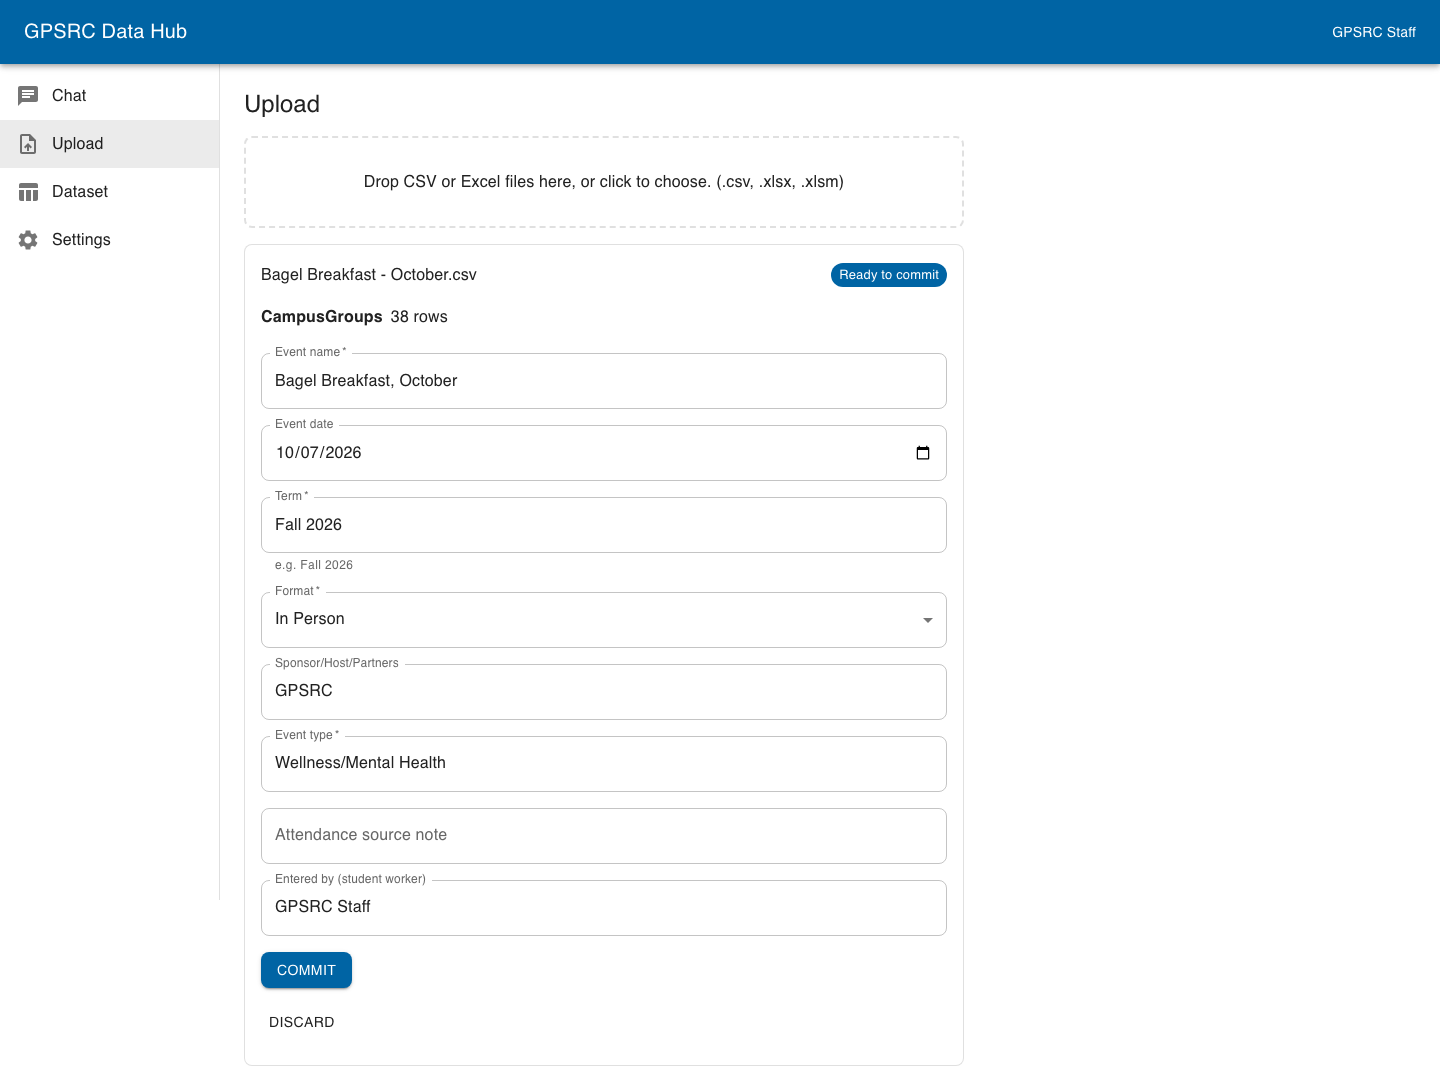
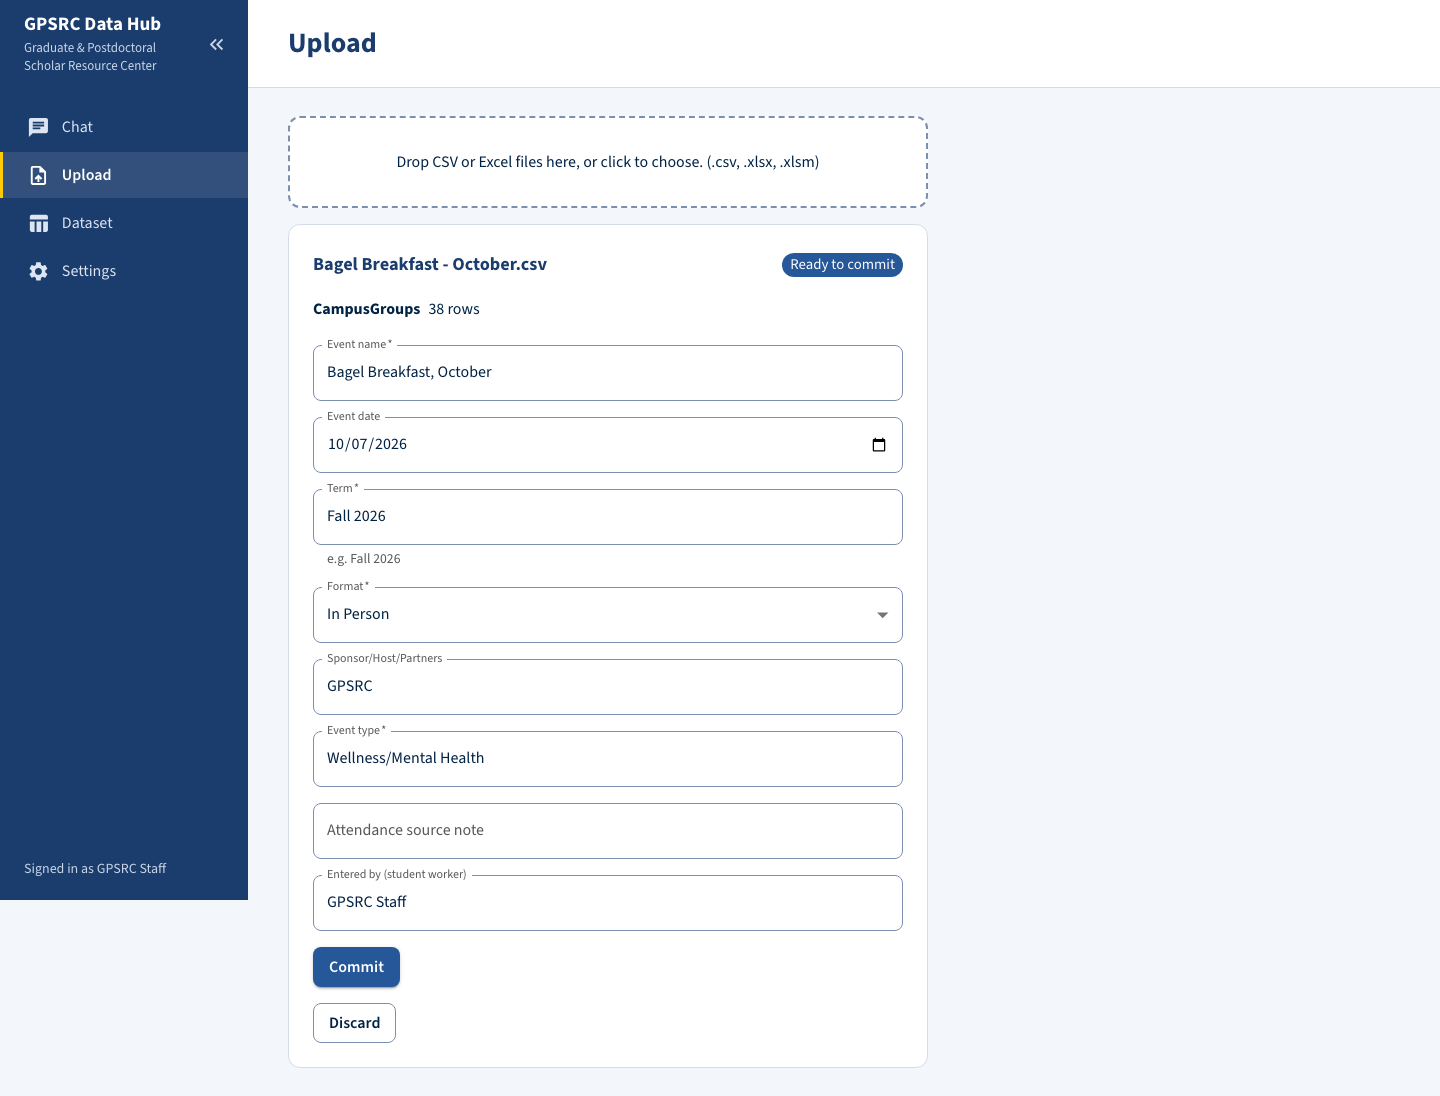
docs: regenerate the screenshots and refresh the guides for the redesign

Changed region(s): [[0.0, 0.0, 1.0, 0.967], [0.625, 0.4055, 0.6562, 0.4367], [0.5938, 0.5303, 0.625, 0.5615]]

diff --git a/project/frontend/e2e/screenshots.spec.ts b/project/frontend/e2e/screenshots.spec.ts
@@ -44,6 +44,12 @@ test("midterm screenshots", async ({ page }) => {
     await shoot(page, "02-commit-summary.png");
   });
 
+  await test.step("dataset after the commit", async () => {
+    await page.goto("/dataset");
+    await expect(page.getByRole("grid")).toContainText("Bagel Breakfast");
+    await shoot(page, "06-dataset.png");
+  });
+
   await test.step("chat answer with the SQL", async () => {
     await page.goto("/chat");
     await page.getByRole("button", { name: "New chat" }).click();
@@ -76,5 +82,14 @@ test("midterm screenshots", async ({ page }) => {
     await expect(page.getByRole("article")).toHaveCount(1);
     await expect(page.getByRole("article", { name: "Demo" })).toContainText("Demo (scripted)");
     await shoot(page, "05-settings.png");
+  });
+
+  await test.step("collapsed navigation", async () => {
+    await page.goto("/chat");
+    await page.getByRole("button", { name: "Collapse navigation" }).click();
+    await expect(page.getByRole("button", { name: "Expand navigation" })).toBeVisible();
+    await shoot(page, "07-nav-collapsed.png");
+    // Leave the nav open for whatever runs next.
+    await page.getByRole("button", { name: "Expand navigation" }).click();
   });
 });

diff --git a/project/docs/user-guide.md b/project/docs/user-guide.md
@@ -2,21 +2,23 @@
 
 For GPSRC staff. This guide shows how to add an event's attendee list to the Hub, ask questions about the data, and download the answers. You do not need to know SQL or any code.
 
-Screens are described by their button and field names. Screenshots arrive with the S6 redesign, which restyles every page. Names in quotes are what you see on screen. A few labels may change a little in the redesign, and this guide will be updated then.
+Screens are described by their button and field names. Names in quotes are what you see on screen.
 
-The Hub has four pages, listed on the left: **Chat**, **Upload**, **Dataset** and **Settings**.
+The Hub has four pages, listed in the navigation on the left: **Chat**, **Upload**, **Dataset** and **Settings**. Click the arrows at the top of the navigation (**Collapse navigation** / **Expand navigation**) to shrink it to icons and give the page more room. Hover over an icon to see the page name. At the bottom it says who you are signed in as, or "Not connected" when the Hub cannot be reached. If you open an address that does not exist, the page says "Page not found".
 
 ## The idea in one minute
 
 1. **Upload** the file that CampusGroups or 12twenty gave you, as it is. Do not edit it first.
 2. Check the event details, then click **Commit**. The rows are added to one permanent dataset.
-3. In **Chat**, ask a question in plain English. The Hub shows the answer and the **SQL** (the database instruction an AI wrote to get it), so you can check how the answer was made.
+3. In **Chat**, ask a question in plain English. The Hub shows the answer and the SQL query (the database instruction an AI wrote to get it), so you can check how the answer was made.
 4. Download the result as an Excel or CSV file.
 
 ## 1. Upload an event
 
 1. Open **Upload**.
-2. Drag the file into the box, or click the box and choose it. Accepted files are `.csv`, `.xlsx` and `.xlsm`. You can drop several files at once. Each file gets its own card.
+2. Drag the file into the box, or click the box and choose it. Accepted files are .csv, .xlsx and .xlsm. An old .xls file is not accepted and is refused before it is uploaded. Save it as .xlsx first, or download it again from the platform. A file larger than the size limit is rejected with a message such as "File exceeds the 10 MB limit." You can drop several files at once. Each file gets its own card.
+
+   ![The Upload page with a CampusGroups file ready to commit](screenshots/01-upload-preview.png)
 3. The Hub reads the file and shows a card with:
    - the file name and a status tag;
    - the platform it recognized (CampusGroups or 12twenty) and the number of rows;
@@ -36,7 +38,7 @@ The Hub has four pages, listed on the left: **Chat**, **Upload**, **Dataset** an
    | Attendance source note | Where the attendance came from, when it is not CampusGroups. Filled in for 12twenty files. |
    | Entered by (student worker) | Your name. |
 
-5. Click **Commit**. A summary appears (see below). The file is now in the dataset.
+5. Click **Commit**. While **Commit** is off, a line under the form says "To commit, fill in: …" and names the fields still missing. A summary appears after the commit (see below). The file is now in the dataset.
 6. Changed your mind before committing? Click **Discard**. The file is removed and nothing is added.
 
 **Check the details before you click Commit.** After a commit the event details cannot be edited and the file cannot be removed (see [known limitations](known-limitations.md)).
@@ -47,8 +49,8 @@ The Hub has four pages, listed on the left: **Chat**, **Upload**, **Dataset** an
 |---|---|
 | Ready to commit | The file is read and waiting for your event details. |
 | Committed | The file is in the dataset. |
-| Duplicate | This file, or a file with exactly the same content, was already added. Nothing was saved. Click "View it on the Dataset page" to find it. Uploading the same file twice never creates duplicate rows. |
-| Rejected | The file is not a CampusGroups or 12twenty attendee export, or it has no attendee rows. The card says why and lists missing columns. |
+| Duplicate | This file, or a file with exactly the same content, was already added. Nothing was saved. The card says "Already imported as {file name}.". Click "View it on the Dataset page" to find it, or **Dismiss** to remove the card. Uploading the same file twice never creates duplicate rows. |
+| Rejected | The file is not a CampusGroups or 12twenty attendee export, or it has no attendee rows. The card says why and lists missing columns. Click **Dismiss** to remove the card. |
 
 If you leave the Upload page with a file waiting, it is still there when you come back. Anything you typed in the form is kept while you move between pages, but lost if you reload the page.
 
@@ -58,8 +60,8 @@ After a commit the card shows "N rows imported" and these counts:
 
 | Count | Meaning |
 |---|---|
-| Linked by NetID | The person was already in the dataset, found by NetID. |
-| Linked by email | The person was already in the dataset, found by email address. |
+| Linked by NetID | The person was already in the dataset, found by NetID. People first seen in this file are not counted here. |
+| Linked by email | The person was already in the dataset, found by email address. People first seen in this file are not counted here. |
 | New people | People seen for the first time. |
 | Unlinked | Rows with neither NetID nor email. They are kept, but cannot be matched to anyone. |
 | Flagged rows | Rows with at least one flag. |
@@ -67,6 +69,8 @@ After a commit the card shows "N rows imported" and these counts:
 | Duplicates in event | Rows for a person who was already listed in the same file. Only the first is kept. |
 
 The Hub recognizes the same person across events by NetID first, then by email. It never guesses from names. A person it cannot be sure of is flagged instead of merged.
+
+![The commit summary](screenshots/02-commit-summary.png)
 
 ### Flags
 
@@ -92,8 +96,12 @@ The data dictionary lists the underlying flag codes: [data-dictionary.md](data-d
 
 1. Open **Chat**. The page opens on a new conversation.
 2. Pick the **AI model** in the drop-down. The default is chosen for you. If the list is empty, add a model in **Settings** first (see the [setup guide](setup-guide.md#6-add-an-ai-model)).
-3. Type your question in the box ("Ask a question about the attendance data") and click **Send**. Press Enter to send, or Shift+Enter for a new line. A question can be up to 2,000 characters.
-4. Watch the progress line: "Writing SQL", "Checking the query", "Running the query", and "Analyzing results" when sharing is on.
+3. Type your question in the box ("Ask a question about your data") and click **Send**. Press Enter to send, or Shift+Enter for a new line. A question can be up to 2,000 characters.
+4. Watch the progress line: "Writing SQL", "Checking the query", "Running the query", and "Analyzing results" when sharing is on. The page scrolls your question to the top and leaves room for the answer.
+
+![A question, its answer, the SQL and the download buttons](screenshots/03-chat-answer.png)
+
+While an answer is being written you can already type your next question. **Send** waits until the answer is done.
 
 To start a different topic, click **New chat**. Your old conversations stay in the list on the left.
 
@@ -104,6 +112,8 @@ To start a different topic, click **New chat**. Your old conversations stay in t
 - Say what you want to see: a number, a list of names and emails, a breakdown by school, "highest first".
 - Ask follow-ups in plain words. "Now only the postdocs" or "Break that down by event" work, because the Hub remembers the earlier questions in the conversation.
 - If your question could mean two things, the Hub asks you which one you mean. Just answer in the next message.
+
+![The Hub asks which year you mean](screenshots/04-clarification.png)
 
 Examples (they work on the sample data):
 
@@ -120,26 +130,28 @@ What the chat can and cannot answer: it knows who attended which event, their na
 Each question gets one answer card. From top to bottom:
 
 - **The summary.** When sharing is on (see section 4), the AI writes a short summary with a note "AI-generated summary. Check it against the table." When sharing is off, the Hub writes a plain one, such as "42 rows" or "No matching records."
-- **The result table.** This is the answer. The table is the authority: if the summary and the table disagree, trust the table. It shows up to 1,000 rows; a notice says when more rows exist. Export to get them all.
+- **The result table.** This is the answer. The table is the authority: if the summary and the table disagree, trust the table. It shows up to 1,000 rows. When the result is cut off, the footer says "More than 1,000 rows". Download the file to get them all.
 - **How I read your question.** One or more plain sentences saying how the AI understood you, and what it assumed (for example, "Students" means everyone GPSRC serves, postdocs included, or "This term" means Fall 2026). Read this first when an answer looks strange. If an assumption is wrong, say so in a follow-up.
-- **SQL.** Click it to see the database instruction that was run. The Hub always shows it so you can check the work, or hand it to someone technical.
-- **The row count and the export buttons** (see section 3).
+- **Show the SQL query.** Click it to see the database instruction that was run. The Hub always shows it so you can check the work, or hand it to someone technical. **Copy** copies it and briefly shows "Copied".
+- **The row count and the download buttons** (see section 3).
 
 Reopening an old conversation shows the question and the SQL, but not the rows. Click **Show results** to run the saved query again on today's data. The table is marked "Re-run on current data".
 
 If something goes wrong, the card shows a short message and a **Retry** button. Retry uses the AI model and sharing choice you have selected now, so you can switch the model and try again. The SQL is still shown so you can see what was attempted.
 
-**The AI can make mistakes.** Check important numbers against the table, and check the "How I read your question" lines. The team tested 20 realistic questions and the AI answered all of them correctly on the main model, but results on your own wording can differ (see [known limitations](known-limitations.md#chat-answers-can-be-wrong)).
+**The AI can make mistakes.** The line "AI can make mistakes. Double-check important answers." under the question box says the same. Check important numbers against the table, and check the "How I read your question" lines. The team tested 20 realistic questions and the AI answered all of them correctly on the main model, but results on your own wording can differ (see [known limitations](known-limitations.md#chat-answers-can-be-wrong)).
 
 ## 3. Download results
 
-**One answer.** Under the answer card, next to the word **Export**, click `.xlsx` for Excel or `.csv` for a CSV file. (The redesign relabels these **Download Excel (.xlsx)** and **Download CSV (.csv)**.) The file holds the full result of that query, not only the first 1,000 rows, up to 100,000 rows. If the file is shorter than the full result, a notice says "This file stops at N rows."
+**One answer.** At the bottom of the answer card, click **Download Excel (.xlsx)** for Excel or **Download CSV (.csv)** for a CSV file. The file holds the full result of that query, not only the first 1,000 rows, up to 100,000 rows. If the file is shorter than the full result, a notice says "This file stops at N rows."
 
 **Everything.** On the **Dataset** page, click **Download full dataset (.xlsx)** or **Download full dataset (.csv)**. The file is in the GPSRC Data Project layout (the 19 columns of the sponsor's template), with a Notes column that says which platform the row came from and what is missing or needs checking. This file also contains the Student ID column. See the [data dictionary](data-dictionary.md).
 
 Values that start with `=`, `+`, `-` or `@` are saved as plain text, so Excel does not run them as formulas.
 
-The **Dataset** page also lists every file that was imported: file name, event, term, platform, rows, flags, who uploaded it and when, and the status (Committed or Pending). A Pending file links back to the Upload page.
+The **Dataset** page also lists every file that was imported: file name, event, term, platform, rows, flags, who uploaded it and when, and the status (Committed or Pending). "Rows" is the number of rows the file added to the dataset. A Pending file links back to the Upload page.
+
+![The Dataset page after a commit](screenshots/06-dataset.png)
 
 ## 4. Who sees the data: the two switches
 
@@ -155,7 +167,12 @@ Two switches decide whether step 2 happens. **Results are sent only when both ar
 | **Allow sending query results to this AI** | Settings, when you add or edit an AI model | The ceiling for that model. Off means this model never receives results. The ZotGPT preset starts on, every other preset starts off. |
 | **Let AI see the results** | Chat, next to the question box | This question and the ones after it in the conversation. It starts at the model's setting. If the model does not allow sharing, the switch is off and cannot be turned on. Hover over it to see why. |
 
-The helper text under the switch tells you the state. Off: the AI only writes the SQL, and the results stay on this computer. You still get the table and the plain summary. On: the AI reads the results to summarize them, and personal information such as emails and names may reach the AI provider.
+The helper text under the switch tells you the state:
+
+- On: "On: the AI reads the results to summarize them. PII (such as emails and names) may be shared with the AI."
+- Off: "Off: the AI sees only your question. You get the results without an AI summary."
+
+With the switch off you still get the table and a plain summary. With it on, personal information such as emails and names may reach the AI provider.
 
 The choice is kept for the rest of the conversation. It resets to the model's setting when you click **New chat** or choose another AI model.
 
@@ -166,12 +183,16 @@ Whether the AI may see results at all is **still to be confirmed with the sponso
 Open **Settings** to see your AI models. Each card shows the name, the provider, the model, the last four characters of the saved key, and tags: **Default**, **Can receive results**.
 
 - **Add AI model** opens the form. See the [setup guide](setup-guide.md#6-add-an-ai-model) for the fields.
-- **Test** checks the connection and shows **Connected** or an error.
+- **Test** checks the connection and shows **Connected** or an error. After a passing test, the **Model** field in the form lists the models the provider offers.
 - **Edit** changes the fields. Leave the API key empty to keep the saved key.
 - **Make default** chooses which model Chat selects first.
 - **Delete** removes the model and its key. Past answers keep their record of which model made them.
 
+Do not put a username or password in the base URL. The form says "The base URL must not contain a username or password. Put the key in the API key field."
+
 The API key is write-only: after you save it, no page ever shows it again.
+
+![The Settings page with the Demo model](screenshots/05-settings.png)
 
 ## When something goes wrong
 
@@ -179,6 +200,7 @@ The API key is write-only: after you save it, no page ever shows it again.
 |---|---|
 | "Could not reach the server." or "Not connected" | The Hub is not running. Start Docker Desktop and run `docker compose up -d` (see the [setup guide](setup-guide.md)). |
 | A file is Rejected | Upload the export exactly as CampusGroups or 12twenty produced it, without editing or re-saving it with other tools. |
+| "Page not found" | The address does not exist. Use the navigation on the left. |
 | A file is a Duplicate but you think it is new | Its content matches a file already imported. Open Dataset to see which one. |
 | An answer looks wrong | Read "How I read your question" and the SQL. Ask again with more detail, or say what is wrong in a follow-up. |
 | An AI error (for example a bad key, or the provider is busy) | Open Settings and click **Test** on the model. Fix the key if needed, then use **Retry**. |

diff --git a/project/README.md b/project/README.md
@@ -4,7 +4,7 @@ A small web app for UCI's Graduate & Postdoctoral Scholar Resource Center (GPSRC
 
 It runs on one staff computer, with Docker. No data goes to the internet except what you choose to send to the AI model (see the [user guide](docs/user-guide.md#4-who-sees-the-data-the-two-switches)). SWE 277P capstone, Fall 2026. Sponsor: Kayleigh Anderson-Natale, PhD.
 
-Screenshots arrive with the S6 redesign, which restyles every page. Until then the docs describe screens by their labels.
+![A question, its answer, the SQL and the download buttons](docs/screenshots/03-chat-answer.png)
 
 ## Quick start
 

diff --git a/project/docs/known-limitations.md b/project/docs/known-limitations.md
@@ -55,7 +55,6 @@ All staff share one built-in user, so everyone sees the same conversations.
 
 ## Other
 
-- **No screenshots yet.** The UI is restyled in S6, so the docs describe screens by labels.
 - **Tested in Chromium (Playwright).** One export in Safari has not been tried yet.
 - If the Hub server itself stops while it is answering a question, that question is not saved. The page shows "Connection lost. Retry."; retry it once the Hub is running again.
 - **Pages are plain HTTP on localhost.** There is no HTTPS, because nothing leaves the computer.
